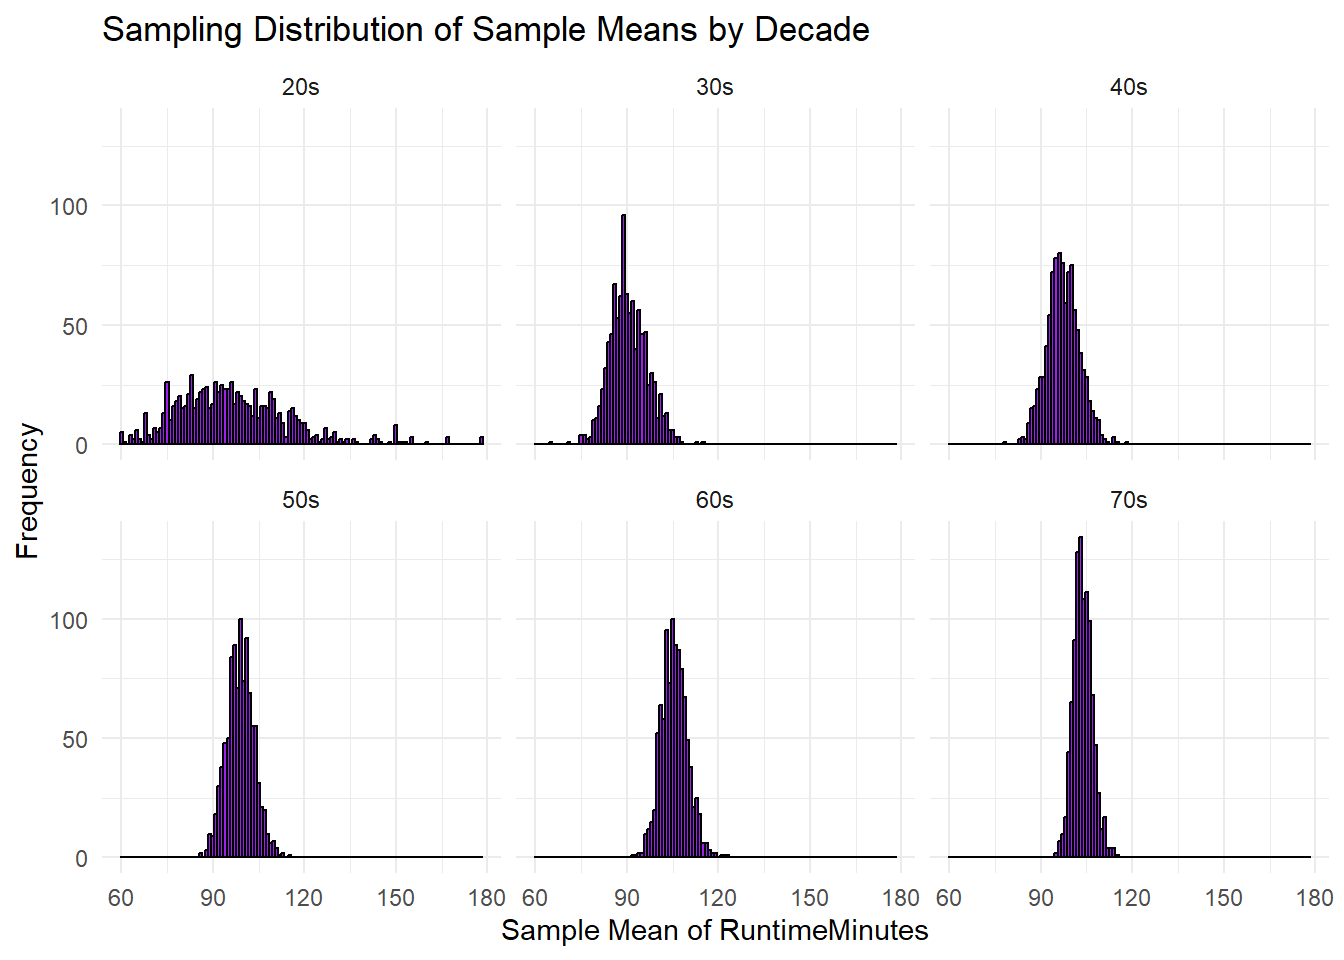
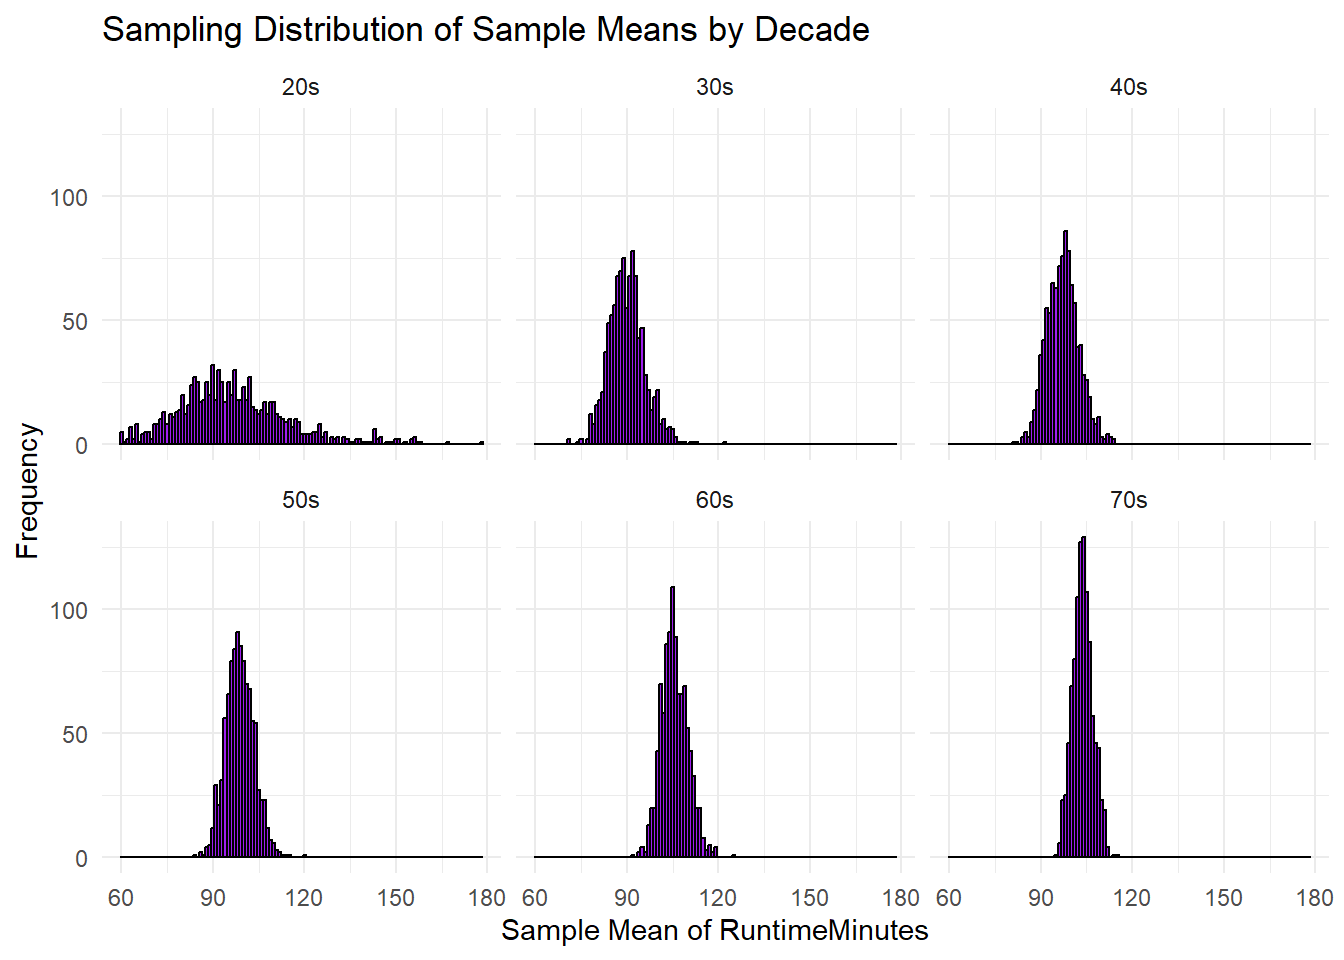
"commit"

diff --git a/Challange1.html b/Challange1.html
@@ -7,7 +7,7 @@
 <meta name="viewport" content="width=device-width, initial-scale=1.0, user-scalable=yes">
 
 
-<title>Challenge1_2</title>
+<title>Challenge1</title>
 <style>
 code{white-space: pre-wrap;}
 span.smallcaps{font-variant: small-caps;}
@@ -79,7 +79,7 @@ pre > code.sourceCode > span > a:first-child::before { text-decoration: underlin
 
 <header id="title-block-header" class="quarto-title-block default">
 <div class="quarto-title">
-<h1 class="title">Challenge1_2</h1>
+<h1 class="title">Challenge1</h1>
 </div>
 
 
@@ -260,12 +260,12 @@ $ director       &lt;chr&gt; "Francesco Bertolini", "Louis Feuillade", "Louis Fe
 <pre><code># A tibble: 6 × 8
   decade est_pop_mean est_pop_sd    se pop_mean pop_sd pop_se se_sampling
   &lt;chr&gt;         &lt;dbl&gt;      &lt;dbl&gt; &lt;dbl&gt;    &lt;dbl&gt;  &lt;dbl&gt;  &lt;dbl&gt;       &lt;dbl&gt;
-1 20s            96.1       25.8  2.58     96.3   26.2   2.62       18.5 
-2 30s            89.0       16.2  1.62     90.3   17.3   1.73        6.10
-3 40s            93.8       17.6  1.76     97.2   19.1   1.91        5.33
-4 50s            99.8       19.6  1.96     98.9   19.2   1.92        4.47
-5 60s           103.        19.4  1.94    106.    21.2   2.12        4.34
-6 70s           102.        16.3  1.63    104.    18.0   1.80        3.19</code></pre>
+1 20s            97.5       27.2  2.72     96.3   26.2   2.62       18.1 
+2 30s            90.0       18.1  1.81     90.3   17.3   1.73        5.95
+3 40s           100.        20.6  2.06     97.2   19.1   1.91        5.23
+4 50s            99.9       21.0  2.10     98.9   19.2   1.92        4.60
+5 60s           108.        21.5  2.15    106.    21.2   2.12        4.36
+6 70s            98.8       15.2  1.52    104.    18.0   1.80        3.31</code></pre>
 </div>
 </div>
 
